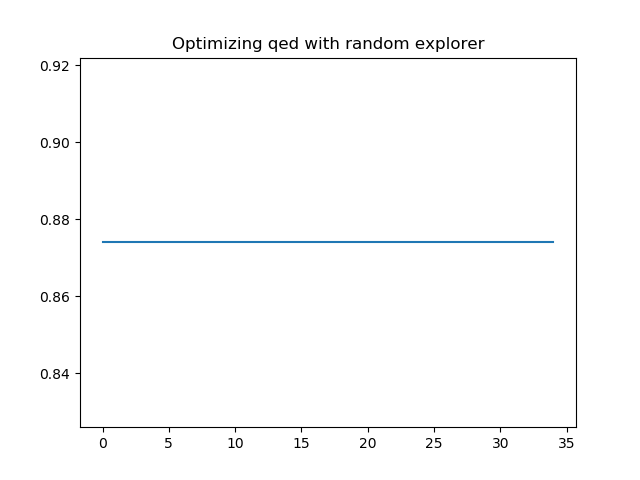
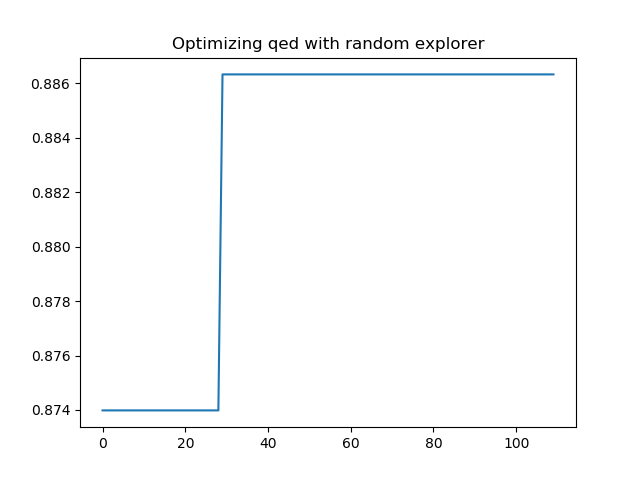
sampling seed setting

diff --git a/datasets/loaders.py b/datasets/loaders.py
@@ -17,12 +17,20 @@ __location__ = os.path.realpath(os.path.join(os.getcwd(), os.path.dirname(__file
 
 # Class used in CartesianGP
 class MolSampler(object):
-    def __init__(self, dataset="chembl", seed=42):
+    def __init__(self, dataset="chembl", sampling_seed=None):
+        """
+        Keyword Arguments:
+            dataset {str} -- dataset to sample from (default: {"chembl"})
+            sampling_seed {int or None} -- (default: {None})
+        
+        Raises:
+            ValueError -- if invalid dataset name is passed.
+        """
         # load the dataset
         logging.info("Creating a MolSampler")
         self.rnd_generator = None
-        if seed is not None:
-            self.rnd_generator = np.random.RandomState(seed)
+        if sampling_seed is not None:
+            self.rnd_generator = np.random.RandomState(sampling_seed)
         if dataset == "chembl":
             self.dataset = get_chembl()
         else:

diff --git a/mols/mol_domains.py b/mols/mol_domains.py
@@ -35,13 +35,17 @@ class MolDomain(Domain):
     """ Domain for Molecules. """
     def __init__(self, mol_type=None,
                  constraint_checker=None,
-                 data_source='chembl'):
+                 data_source='chembl', sampling_seed=None):
         """ Constructor. The arguments are all kwd and come from
             domain_config in mol_function_caller.
+
+            mol_type -- [TODO] e.g. can be 'drug-like'
+            constraint_checker -- [TODO]
+            data_source, sampling_seed -- MolSampler parameters
         """
-        self.mol_type = mol_type  # e.g. can be 'drug-like'
+        self.mol_type = mol_type
         self.constraint_checker = constraint_checker  # TODO: make a from-string constructor
-        self.data_source = MolSampler(data_source)
+        self.data_source = MolSampler(data_source, sampling_seed)
         super(MolDomain, self).__init__()
 
     def get_type(self):

diff --git a/mols/mol_gp.py b/mols/mol_gp.py
@@ -9,6 +9,7 @@ TODO:
 
 # general imports
 import numpy as np
+import logging
 
 # imports from dragonfly
 from dragonfly.exd import domains
@@ -90,7 +91,7 @@ def _set_up_hyperparams_for_domain(fitter, X_data, gp_domain, dom_prefix,
 
         # Some conditional options
         if dom_type == 'molecule':
-            print(f"_set_up_hyperparams_for_domain: Selected kernel_type: {kernel_type}")
+            logging.debug(f"_set_up_hyperparams_for_domain: Selected kernel_type: {kernel_type}")
             if kernel_type in MOL_GRAPH_CONT_KERNEL_TYPES:
                 fitter.cts_hp_bounds.append([0, 5])
                 fitter.param_order.append(["par", "cts"])

diff --git a/experiments/run_explorer.py b/experiments/run_explorer.py
@@ -27,7 +27,7 @@ def explore_and_validate_synth(init_pool_size, n_steps,
 
     obj_func = get_objective_by_name(objective)
     sampler = MolSampler("chembl")
-    pool = sampler(init_pool_size)
+    pool = sampler(init_pool_size, sampling_seed=42)
     exp = RandomExplorer(obj_func, initial_pool=pool)
 
     props = [obj_func(mol) for mol in pool]
@@ -51,4 +51,4 @@ def explore_and_validate_synth(init_pool_size, n_steps,
 
 
 if __name__ == "__main__":
-    explore_and_validate_synth(init_pool_size=5, n_steps=30, objective="qed")
+    explore_and_validate_synth(init_pool_size=10, n_steps=100, objective="qed")

diff --git a/experiments/run_chemist.py b/experiments/run_chemist.py
@@ -64,7 +64,7 @@ def main():
     # Problem settings
     objective_func = get_objective_by_name(OBJECTIVE)
     # check MolDomain constructor for full argument list:
-    domain_config = {'data_source': DATASET}
+    domain_config = {'data_source': DATASET, 'sampling_seed': 42}
     chemist_args = {
         'acq_opt_method': 'rand_explorer',
         'init_capital': 10,

diff --git a/mols/mol_functions.py b/mols/mol_functions.py
@@ -57,7 +57,10 @@ def LogP(mol):
     return Descriptors.MolLogP(rdkit_mol)
 
 def QED(mol):
-    """ Quantative estimation of drug-likeliness """
+    """ Quantative estimation of drug-likeliness.
+    `High` ranges - [0.9, 1.]
+
+    """
     rdkit_mol = to_rdkit(mol)
     return qed(rdkit_mol)
 
